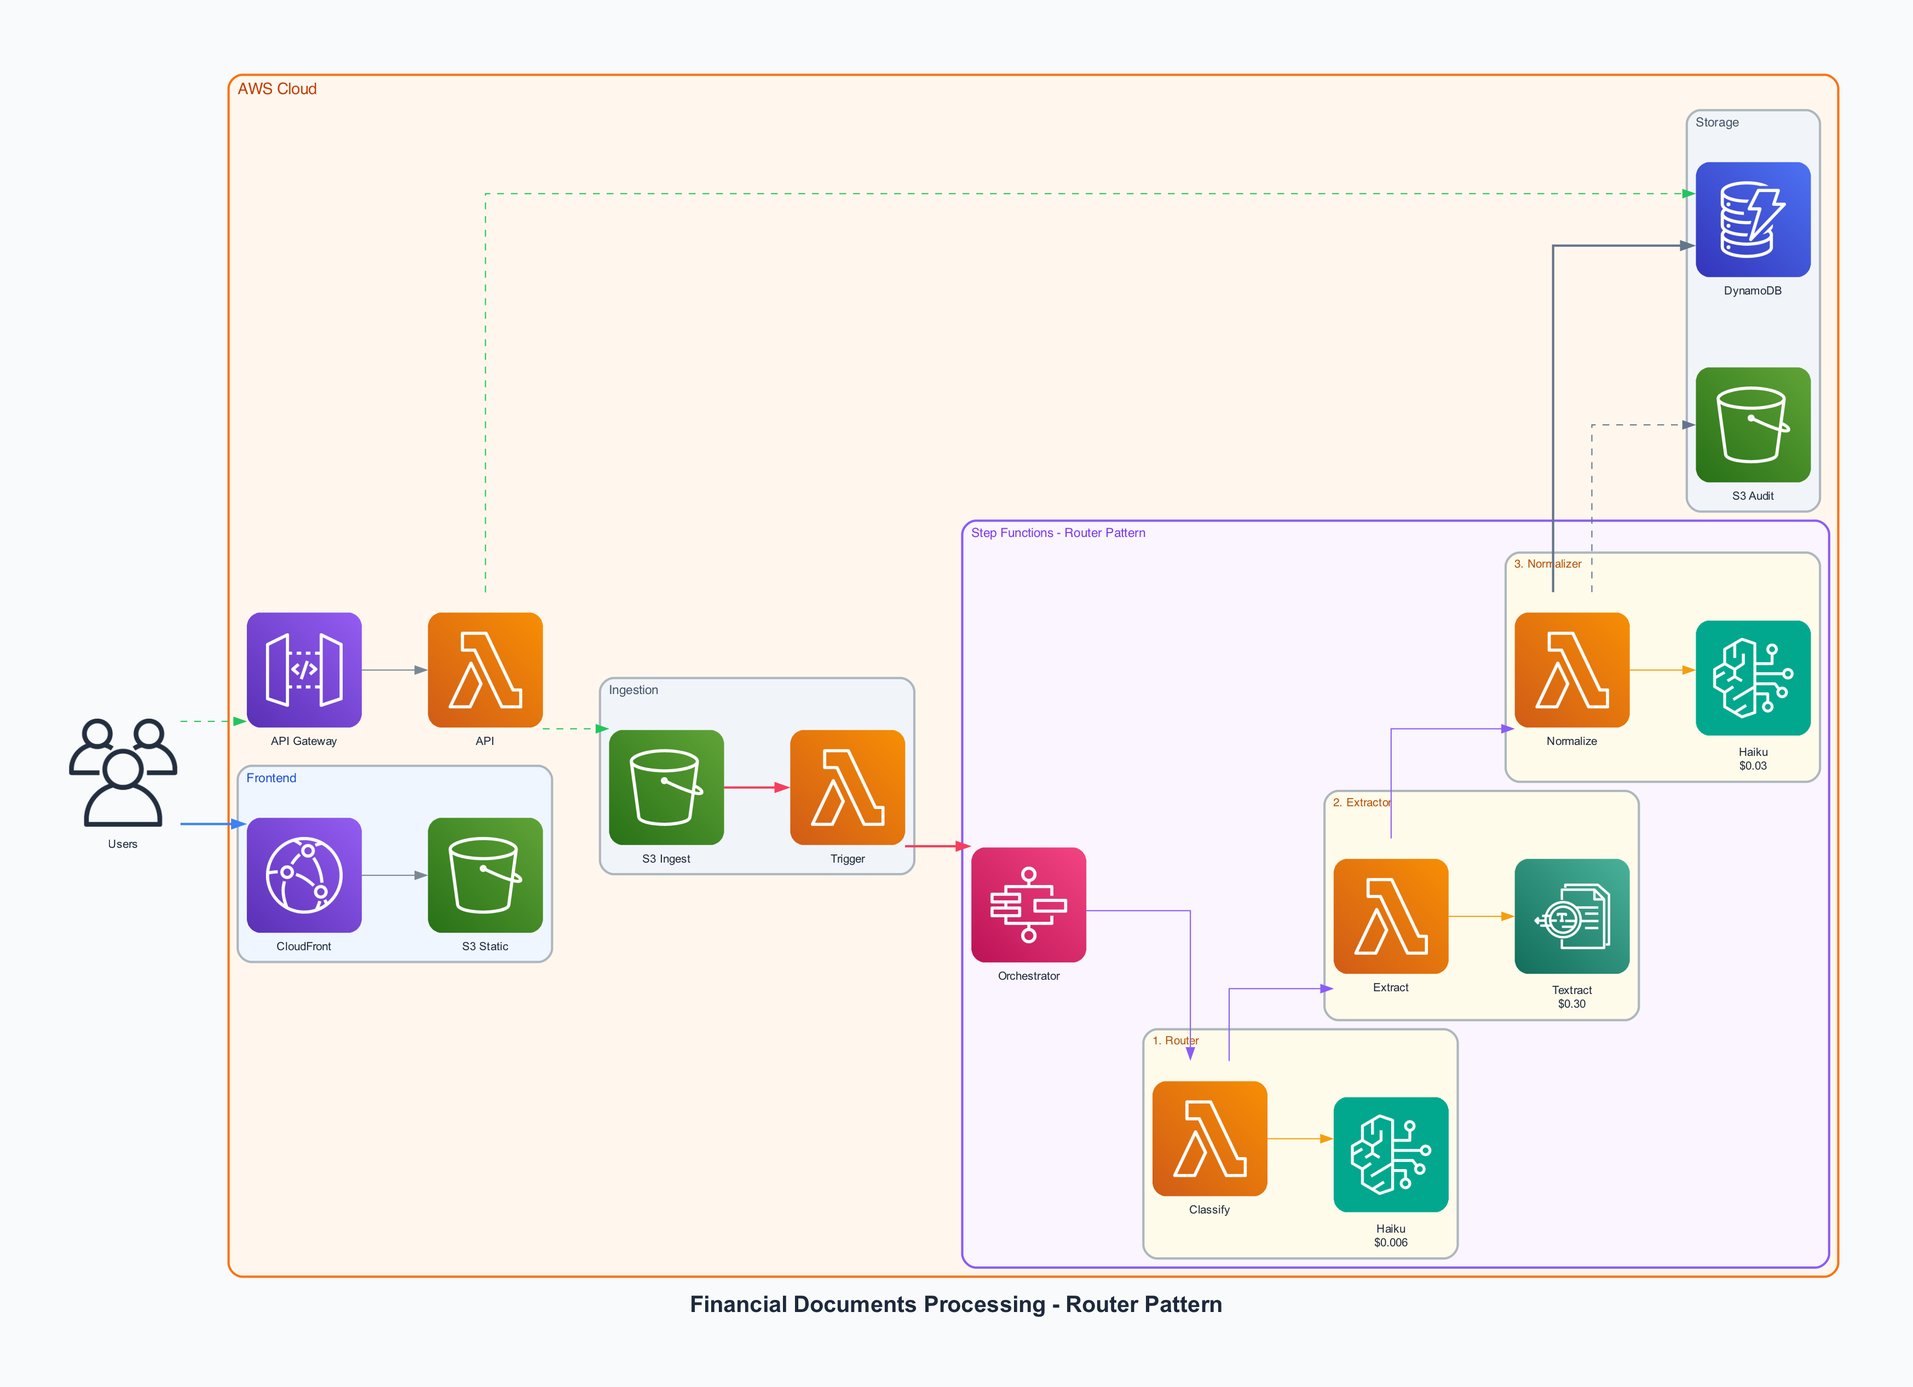
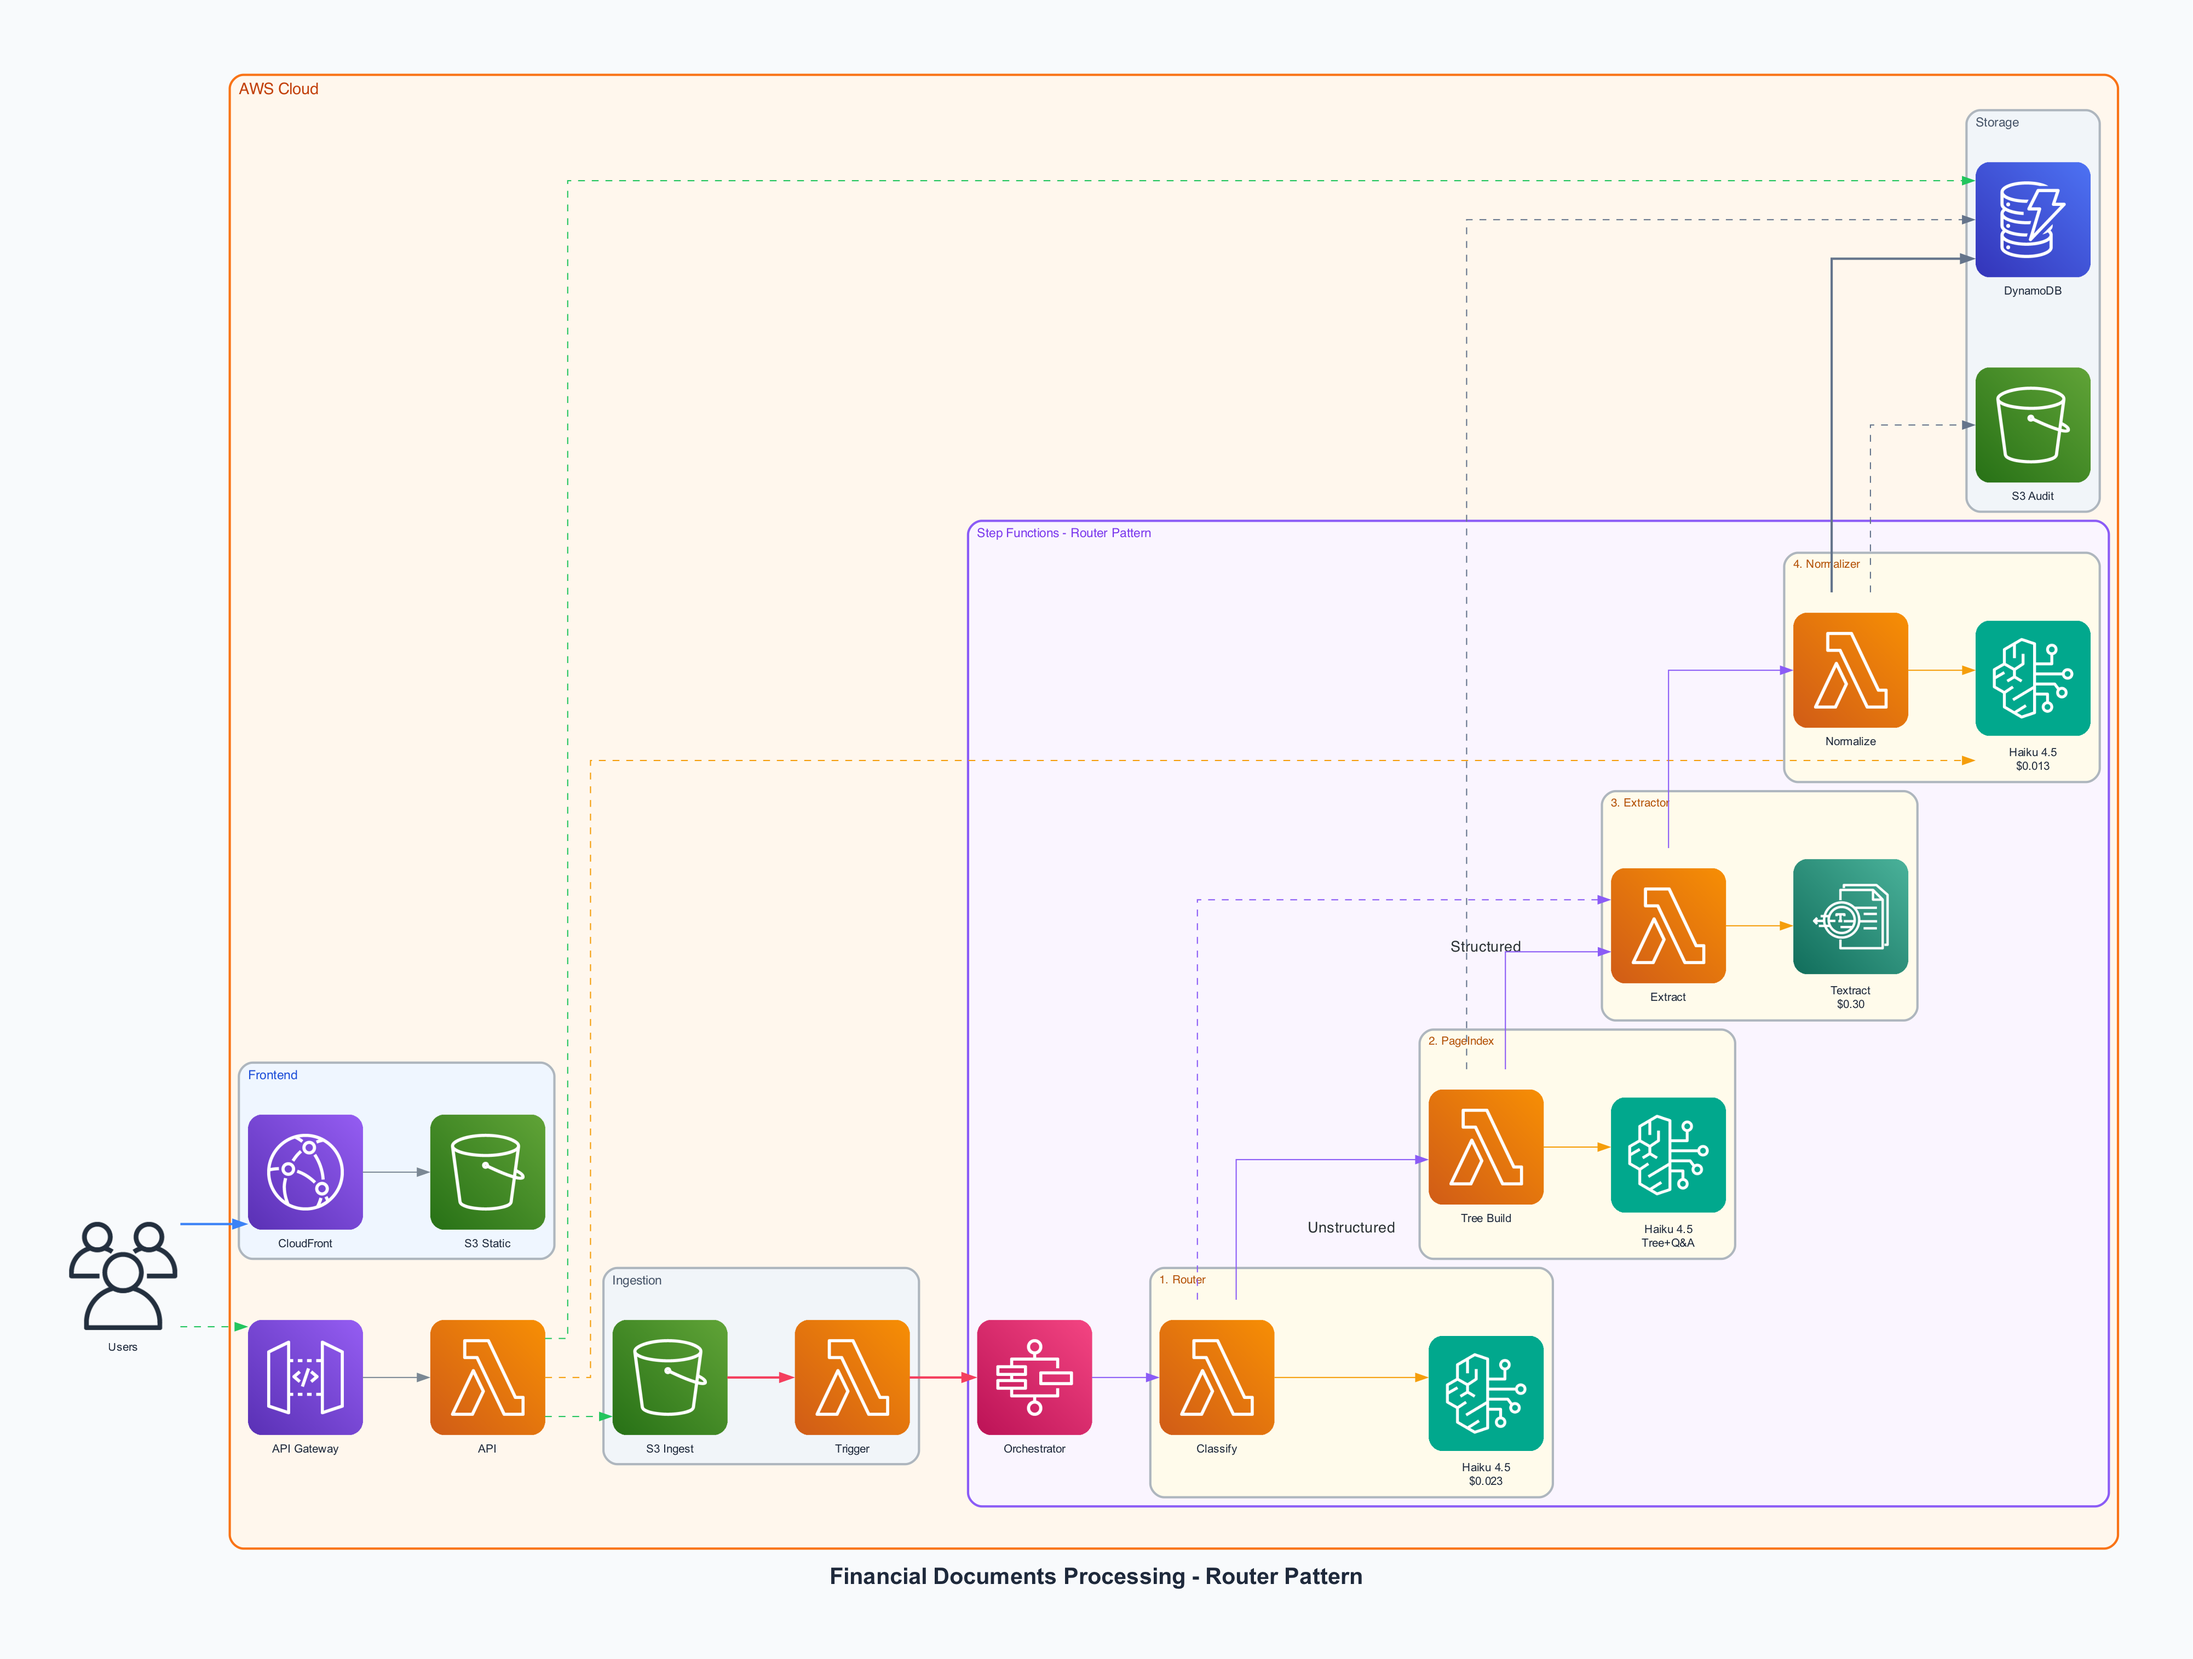
docs: update all architecture diagrams with PageIndex pipeline
- Vertical diagram: Add PageIndex Lambda (stage 2), branching between
  unstructured (through PageIndex) and structured (direct to Extractor),
  API Lambda → Bedrock for Q&A/summaries
- Horizontal diagram: Same additions in compact LR layout
- Step Functions diagram: Regenerated from live AWS definition (16 states)
  showing ProcessingModeChoice, PageIndexRouteChoice, async/sync PageIndex,
  Map extraction, and legacy parallel branches
- New script: generate-stepfunctions-diagram.py fetches live definition
  from AWS and renders via graphviz

Changed region(s): [[0.0312, 0.0312, 0.9671, 0.9665], [0.4991, 0.3741, 0.5927, 0.4053], [0.4367, 0.3118, 0.5303, 0.3429]]

diff --git a/scripts/generate-stepfunctions-diagram.py b/scripts/generate-stepfunctions-diagram.py
@@ -1,0 +1,211 @@
+#!/usr/bin/env python3
+"""
+Generate Step Functions state machine diagram from the live AWS definition.
+
+Fetches the current state machine definition and renders it as a clean
+flow diagram using graphviz.
+
+Output: docs/stepfunctions_graph.png
+"""
+
+import json
+import subprocess
+import sys
+
+import boto3
+
+
+def get_state_machine_definition():
+    """Fetch the current state machine definition from AWS."""
+    client = boto3.client("stepfunctions", region_name="us-west-2")
+    resp = client.describe_state_machine(
+        stateMachineArn="arn:aws:states:us-west-2:211125568838:stateMachine:financial-doc-processor"
+    )
+    return json.loads(resp["definition"])
+
+
+# Color palette
+COLORS = {
+    "task": "#f97316",       # Orange - Lambda tasks
+    "choice": "#8b5cf6",     # Purple - Choice states
+    "parallel": "#3b82f6",   # Blue - Parallel states
+    "map": "#06b6d4",        # Cyan - Map state
+    "succeed": "#22c55e",    # Green - Success
+    "fail": "#ef4444",       # Red - Fail
+    "pass": "#64748b",       # Gray - Pass
+    "edge": "#475569",       # Slate - edges
+    "default_edge": "#94a3b8",  # Light slate - default transitions
+}
+
+# Human-readable labels for states
+LABELS = {
+    "ClassifyDocument": "1. Classify\nDocument\n(Router Lambda)",
+    "ProcessingModeChoice": "Processing\nMode?",
+    "PageIndexRouteChoice": "Has\nSections?",
+    "ExtractionRouteChoice": "Extraction\nPlan?",
+    "BuildPageIndexAsync": "2a. Build PageIndex\n(Async, Fire & Forget)",
+    "BuildPageIndexSync": "2b. Build PageIndex\n(Sync, Understand-Only)",
+    "IndexingComplete": "Indexing\nComplete",
+    "LegacyDocumentTypeChoice": "Document\nType?",
+    "MapExtraction": "3. Map Extraction\n(Plugin Sections)",
+    "ParallelMortgageExtraction": "3. Parallel Extraction\n(Mortgage)",
+    "ParallelCreditAgreementExtraction": "3. Parallel Extraction\n(Credit Agreement)",
+    "ParallelLoanAgreementExtraction": "3. Parallel Extraction\n(Loan Agreement)",
+    "NormalizeData": "4. Normalize\nData\n(Haiku 4.5)",
+    "HandleError": "Handle\nError",
+    "ProcessingFailed": "Processing\nFailed",
+    "ProcessingComplete": "Processing\nComplete",
+}
+
+
+def state_shape(state_type):
+    """Return graphviz shape and color for a state type."""
+    t = state_type.lower()
+    if t == "task":
+        return "box", COLORS["task"], "white"
+    elif t == "choice":
+        return "diamond", COLORS["choice"], "white"
+    elif t == "parallel":
+        return "box", COLORS["parallel"], "white"
+    elif t == "map":
+        return "box", COLORS["map"], "white"
+    elif t == "succeed":
+        return "ellipse", COLORS["succeed"], "white"
+    elif t == "fail":
+        return "ellipse", COLORS["fail"], "white"
+    elif t == "pass":
+        return "box", COLORS["pass"], "white"
+    else:
+        return "box", "#94a3b8", "black"
+
+
+def build_dot(definition):
+    """Build a graphviz DOT string from the state machine definition."""
+    lines = [
+        'digraph StepFunctions {',
+        '  bgcolor="#f8fafc";',
+        '  fontname="Arial Bold";',
+        '  fontsize=20;',
+        '  label="Financial Doc Processor — Step Functions State Machine";',
+        '  labelloc=t;',
+        '  fontcolor="#1e293b";',
+        '  rankdir=TB;',
+        '  nodesep=0.6;',
+        '  ranksep=0.8;',
+        '  dpi=150;',
+        '  node [fontname="Arial" fontsize=10 style=filled penwidth=2];',
+        '  edge [fontname="Arial" fontsize=8 color="#475569"];',
+        '',
+        '  Start [shape=circle fillcolor="#22c55e" fontcolor=white label="Start" width=0.5];',
+    ]
+
+    states = definition.get("States", {})
+    start_at = definition.get("StartAt", "")
+
+    # Add nodes
+    for name, state in states.items():
+        stype = state.get("Type", "Task")
+        shape, color, fontcolor = state_shape(stype)
+        label = LABELS.get(name, name.replace("_", "\\n"))
+        lines.append(
+            f'  "{name}" [shape={shape} fillcolor="{color}" '
+            f'fontcolor="{fontcolor}" label="{label}" pencolor="{color}"];'
+        )
+
+    lines.append("")
+
+    # Start edge
+    lines.append(f'  Start -> "{start_at}" [penwidth=2 color="#22c55e"];')
+
+    # Add edges
+    for name, state in states.items():
+        stype = state.get("Type", "Task")
+
+        if stype == "Choice":
+            choices = state.get("Choices", [])
+            default = state.get("Default")
+            for i, choice in enumerate(choices):
+                target = choice.get("Next", "")
+                # Build edge label from condition
+                var = choice.get("Variable", "")
+                edge_label = ""
+                if "StringEquals" in choice:
+                    edge_label = f'{choice["StringEquals"]}'
+                elif "BooleanEquals" in choice:
+                    edge_label = f'{"Yes" if choice["BooleanEquals"] else "No"}'
+                elif "And" in choice:
+                    edge_label = "Has plan"
+
+                lines.append(
+                    f'  "{name}" -> "{target}" '
+                    f'[label=" {edge_label}" color="{COLORS["choice"]}" '
+                    f'fontcolor="{COLORS["choice"]}"];'
+                )
+            if default:
+                lines.append(
+                    f'  "{name}" -> "{default}" '
+                    f'[label=" default" style=dashed color="{COLORS["default_edge"]}" '
+                    f'fontcolor="{COLORS["default_edge"]}"];'
+                )
+
+        elif stype in ("Task", "Pass"):
+            nxt = state.get("Next")
+            if nxt:
+                lines.append(f'  "{name}" -> "{nxt}" [penwidth=1.5];')
+            catch = state.get("Catch", [])
+            for c in catch:
+                target = c.get("Next", "")
+                lines.append(
+                    f'  "{name}" -> "{target}" '
+                    f'[style=dashed color="{COLORS["fail"]}" label=" error"];'
+                )
+
+        elif stype in ("Parallel", "Map"):
+            nxt = state.get("Next")
+            if nxt:
+                lines.append(f'  "{name}" -> "{nxt}" [penwidth=1.5];')
+            catch = state.get("Catch", [])
+            for c in catch:
+                target = c.get("Next", "")
+                lines.append(
+                    f'  "{name}" -> "{target}" '
+                    f'[style=dashed color="{COLORS["fail"]}" label=" error"];'
+                )
+
+        elif stype == "Succeed":
+            pass  # Terminal
+        elif stype == "Fail":
+            pass  # Terminal
+
+    lines.append("}")
+    return "\n".join(lines)
+
+
+def main():
+    print("Fetching state machine definition from AWS...")
+    definition = get_state_machine_definition()
+    print(f"Found {len(definition.get('States', {}))} states")
+
+    dot_content = build_dot(definition)
+
+    # Write DOT file for debugging
+    dot_path = "docs/stepfunctions_graph.dot"
+    with open(dot_path, "w") as f:
+        f.write(dot_content)
+
+    # Render PNG
+    png_path = "docs/stepfunctions_graph.png"
+    result = subprocess.run(
+        ["dot", "-Tpng", "-o", png_path, dot_path],
+        capture_output=True,
+        text=True,
+    )
+    if result.returncode != 0:
+        print(f"ERROR: graphviz failed: {result.stderr}", file=sys.stderr)
+        sys.exit(1)
+
+    print(f"Step Functions diagram saved to {png_path}")
+
+
+if __name__ == "__main__":
+    main()

diff --git a/scripts/generate-architecture-diagram.py b/scripts/generate-architecture-diagram.py
@@ -3,12 +3,15 @@
 Generate AWS Architecture Diagram for Financial Documents Processing System.
 
 This creates a professional, publication-ready architecture diagram showing:
-- React Frontend on CloudFront/S3
-- API Gateway + Lambda API
+- React Frontend on CloudFront/S3 (SPA with independent panel scrolling)
+- API Gateway + Lambda API (CRUD, Q&A, section summaries)
 - S3 Document Ingestion
 - Step Functions Orchestration (Router Pattern)
-- Lambda Processing Pipeline (Router -> Extractor -> Normalizer)
-- Bedrock AI (Claude Haiku) & Textract
+- Lambda Processing Pipeline:
+  - Router -> PageIndex (unstructured) -> Extractor -> Normalizer
+  - Router -> Extractor (structured forms, skip PageIndex)
+- Bedrock AI (Claude Haiku 4.5): Classification, PageIndex tree, Q&A, summaries
+- Textract: Targeted page extraction
 - DynamoDB & S3 Audit Storage
 """
 
@@ -155,13 +158,18 @@ with Diagram(
                     router_lambda = Lambda("Router Lambda")
                     bedrock_haiku = Bedrock("Claude Haiku 4.5\n~$0.023/doc")
 
+                # PageIndex Stage (unstructured docs only)
+                with Cluster("2. PAGEINDEX: Tree Building\n(unstructured docs)", graph_attr=ai_cluster_style):
+                    pageindex_lambda = Lambda("PageIndex Lambda")
+                    bedrock_haiku_pi = Bedrock("Claude Haiku 4.5\nTree + Summaries")
+
                 # Extractor Stage
-                with Cluster("2. EXTRACTOR: Targeted Pages", graph_attr=ai_cluster_style):
+                with Cluster("3. EXTRACTOR: Targeted Pages", graph_attr=ai_cluster_style):
                     extractor_lambda = Lambda("Extractor Lambda")
                     textract = Textract("Textract\nTables+Queries\n~$0.30/doc")
 
                 # Normalizer Stage
-                with Cluster("3. NORMALIZER: Refinement", graph_attr=ai_cluster_style):
+                with Cluster("4. NORMALIZER: Refinement", graph_attr=ai_cluster_style):
                     normalizer_lambda = Lambda("Normalizer Lambda")
                     bedrock_haiku_norm = Bedrock("Claude Haiku 4.5\n~$0.013/doc")
 
@@ -193,7 +201,13 @@ with Diagram(
     sfn >> Edge(color="#8b5cf6", penwidth="2") >> router_lambda
     router_lambda >> Edge(color="#f59e0b", label="Classify") >> bedrock_haiku
 
-    router_lambda >> Edge(color="#8b5cf6", penwidth="2", label="Page Map") >> extractor_lambda
+    # PageIndex branch (unstructured documents)
+    router_lambda >> Edge(color="#8b5cf6", penwidth="2", label="Unstructured\n(has_sections)") >> pageindex_lambda
+    pageindex_lambda >> Edge(color="#f59e0b", label="Build Tree") >> bedrock_haiku_pi
+    pageindex_lambda >> Edge(color="#8b5cf6", penwidth="2", label="Tree-Assisted\nPage Map") >> extractor_lambda
+
+    # Direct extractor branch (structured forms)
+    router_lambda >> Edge(color="#8b5cf6", style="dashed", label="Structured\n(all pages)") >> extractor_lambda
     extractor_lambda >> Edge(color="#f59e0b", label="OCR Pages") >> textract
 
     extractor_lambda >> Edge(color="#8b5cf6", penwidth="2", label="Raw Data") >> normalizer_lambda
@@ -202,6 +216,10 @@ with Diagram(
     # Storage Output
     normalizer_lambda >> Edge(color="#64748b", penwidth="2", label="Final Data") >> dynamodb
     normalizer_lambda >> Edge(color="#64748b", style="dashed", label="Audit") >> s3_audit
+    pageindex_lambda >> Edge(color="#64748b", style="dashed", label="Cache Tree") >> dynamodb
+
+    # API Lambda connections for Q&A and summaries
+    api_lambda >> Edge(color="#f59e0b", style="dashed", label="Q&A +\nSummaries") >> bedrock_haiku_norm
 
     # Monitoring
     sfn >> Edge(color="#94a3b8", style="dashed") >> cloudwatch

diff --git a/scripts/generate-architecture-diagram-horizontal.py b/scripts/generate-architecture-diagram-horizontal.py
@@ -2,6 +2,9 @@
 """
 Generate Horizontal AWS Architecture Diagram for Financial Documents Processing.
 Optimized for presentations and README display with light theme.
+
+Includes Router Pattern pipeline with PageIndex tree building for unstructured
+documents, on-demand section summaries, and hybrid Q&A.
 """
 
 from diagrams import Diagram, Cluster, Edge
@@ -114,11 +117,15 @@ with Diagram(
                 router = Lambda("Classify")
                 haiku1 = Bedrock("Haiku 4.5\n$0.023")
 
-            with Cluster("2. Extractor", graph_attr=ai_style):
+            with Cluster("2. PageIndex", graph_attr=ai_style):
+                pageindex = Lambda("Tree Build")
+                haiku_pi = Bedrock("Haiku 4.5\nTree+Q&A")
+
+            with Cluster("3. Extractor", graph_attr=ai_style):
                 extractor = Lambda("Extract")
                 textract = Textract("Textract\n$0.30")
 
-            with Cluster("3. Normalizer", graph_attr=ai_style):
+            with Cluster("4. Normalizer", graph_attr=ai_style):
                 normalizer = Lambda("Normalize")
                 haiku2 = Bedrock("Haiku 4.5\n$0.013")
 
@@ -141,7 +148,10 @@ with Diagram(
     sfn >> Edge(color="#8b5cf6") >> router
     router >> Edge(color="#f59e0b") >> haiku1
 
-    router >> Edge(color="#8b5cf6") >> extractor
+    router >> Edge(color="#8b5cf6", label="Unstructured") >> pageindex
+    pageindex >> Edge(color="#f59e0b") >> haiku_pi
+    pageindex >> Edge(color="#8b5cf6") >> extractor
+    router >> Edge(color="#8b5cf6", style="dashed", label="Structured") >> extractor
     extractor >> Edge(color="#f59e0b") >> textract
 
     extractor >> Edge(color="#8b5cf6") >> normalizer
@@ -149,7 +159,9 @@ with Diagram(
 
     normalizer >> Edge(color="#64748b", penwidth="2") >> dynamodb
     normalizer >> Edge(color="#64748b", style="dashed") >> s3_audit
+    pageindex >> Edge(color="#64748b", style="dashed") >> dynamodb
 
     api_lambda >> Edge(color="#22c55e", style="dashed") >> dynamodb
+    api_lambda >> Edge(color="#f59e0b", style="dashed") >> haiku2
 
 print("Horizontal diagram saved to docs/aws-architecture-horizontal.png")
